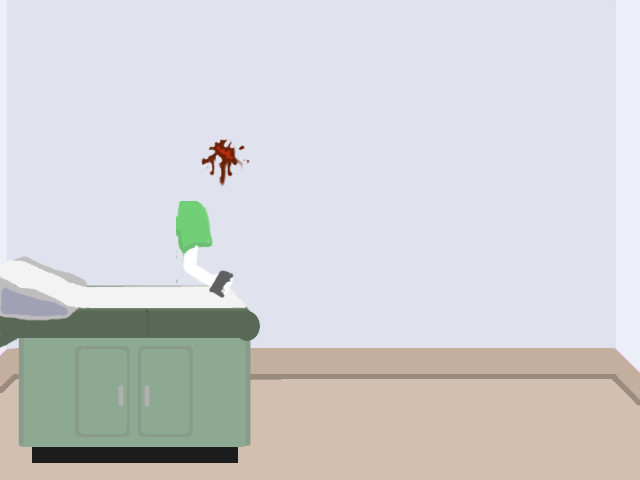
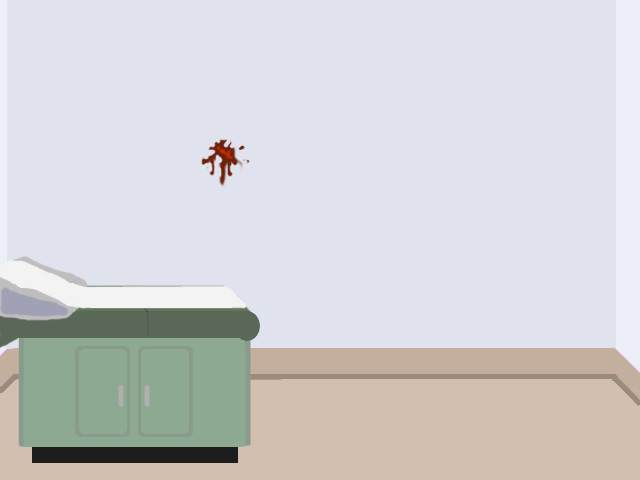
Left Arm

Changed region(s): [[0.25, 0.4062, 0.375, 0.625]]

diff --git a/game.min.js b/game.min.js
@@ -259,7 +259,7 @@ return rect;},update:function(){if(ig.world!=undefined)ig.world.Step(ig.system.t
 ig.baked=true;ig.module('plugins.box2d.entity').requires('impact.entity','plugins.box2d.game').defines(function(){ig.Box2DEntity=ig.Entity.extend({body:null,angle:0,init:function(x,y,settings){this.parent(x,y,settings);if(!ig.global.wm){this.createBody();}},createBody:function(){var bodyDef=new b2.BodyDef();bodyDef.position.Set((this.pos.x+this.size.x/2)*b2.SCALE,(this.pos.y+this.size.y/2)*b2.SCALE);this.body=ig.world.CreateBody(bodyDef);var shapeDef=new b2.PolygonDef();shapeDef.SetAsBox(this.size.x/2*b2.SCALE,this.size.y/2*b2.SCALE);shapeDef.density=1;this.body.CreateShape(shapeDef);this.body.SetMassFromShapes();},update:function(){var p=this.body.GetPosition();this.pos={x:(p.x/b2.SCALE-this.size.x/2),y:(p.y/b2.SCALE-this.size.y/2)};this.angle=this.body.GetAngle().round(2);if(this.currentAnim){this.currentAnim.update();this.currentAnim.angle=this.angle;}},kill:function(){ig.world.DestroyBody(this.body);this.parent();}});});
 
 // lib/game/entities/gib.js
-ig.baked=true;ig.module('game.entities.gib').requires('impact.entity','plugins.box2d.entity').defines(function(){EntityBigGib=ig.Box2DEntity.extend({size:{x:20,y:25},type:ig.Entity.TYPE.NONE,checkAgainst:ig.Entity.TYPE.A,collides:ig.Entity.COLLIDES.NEVER,animSheet:new ig.AnimationSheet('media/big_gib.png',20,25),maxVel:200,maxTorque:15,init:function(x,y,settings){this.parent(x,y,settings);var animRand=Math.floor((Math.random()*4));var angleRand=Math.floor((Math.random()*7));var vel=Math.floor((Math.random()*this.maxVel)+200);var torque=Math.floor((Math.random()*this.maxTorque));this.addAnim('idle',1,[animRand]);this.currentAnim.angle=angleRand;var vx=vel*Math.cos(angleRand);var vy=vel*Math.sin(angleRand);this.body.ApplyImpulse(new b2.Vec2(vx,vy),this.body.GetPosition());this.body.ApplyTorque(torque);this.body.m_linearDamping=0.7;this.body.m_angularDamping=0.6;ig.game.sortEntitiesDeferred();},update:function(){this.parent();},});EntityLittleGib=ig.Box2DEntity.extend({size:{x:8,y:8},type:ig.Entity.TYPE.NONE,checkAgainst:ig.Entity.TYPE.A,collides:ig.Entity.COLLIDES.NEVER,animSheet:new ig.AnimationSheet('media/little_gib.png',8,8),maxVel:400,maxTorque:35,init:function(x,y,settings){this.parent(x,y,settings);var animRand=Math.floor((Math.random()*4));var angleRand=Math.floor((Math.random()*7));var vel=Math.floor((Math.random()*this.maxVel)+200);var torque=Math.floor((Math.random()*this.maxTorque));this.addAnim('idle',1,[animRand]);this.currentAnim.angle=angleRand;var vx=vel*Math.cos(angleRand);var vy=vel*Math.sin(angleRand);this.body.ApplyImpulse(new b2.Vec2(vx,vy),this.body.GetPosition());this.body.ApplyTorque(torque);this.body.m_linearDamping=0.7;this.body.m_angularDamping=0.6;ig.game.sortEntitiesDeferred();},update:function(){this.parent();},});});
+ig.baked=true;ig.module('game.entities.gib').requires('impact.entity','plugins.box2d.entity').defines(function(){EntityBigGib=ig.Box2DEntity.extend({size:{x:20,y:25},type:ig.Entity.TYPE.NONE,checkAgainst:ig.Entity.TYPE.A,collides:ig.Entity.COLLIDES.NEVER,animSheet:new ig.AnimationSheet('media/big_gib.png',20,25),maxVel:200,maxTorque:15,init:function(x,y,settings){this.parent(x,y,settings);var animRand=Math.floor((Math.random()*4));var angleRand=Math.floor((Math.random()*7));var vel=Math.floor((Math.random()*this.maxVel)+200);var torque=Math.floor((Math.random()*this.maxTorque));this.addAnim('idle',1,[animRand]);this.currentAnim.angle=angleRand;var vx=vel*Math.cos(angleRand);var vy=vel*Math.sin(angleRand);this.body.ApplyImpulse(new b2.Vec2(vx,vy),this.body.GetPosition());this.body.ApplyTorque(torque);this.body.m_linearDamping=0.7;this.body.m_angularDamping=0.6;ig.game.sortEntitiesDeferred();},update:function(){this.parent();}});EntityLittleGib=ig.Box2DEntity.extend({size:{x:8,y:8},type:ig.Entity.TYPE.NONE,checkAgainst:ig.Entity.TYPE.A,collides:ig.Entity.COLLIDES.NEVER,animSheet:new ig.AnimationSheet('media/little_gib.png',8,8),maxVel:400,maxTorque:35,init:function(x,y,settings){this.parent(x,y,settings);var animRand=Math.floor((Math.random()*4));var angleRand=Math.floor((Math.random()*7));var vel=Math.floor((Math.random()*this.maxVel)+200);var torque=Math.floor((Math.random()*this.maxTorque));this.addAnim('idle',1,[animRand]);this.currentAnim.angle=angleRand;var vx=vel*Math.cos(angleRand);var vy=vel*Math.sin(angleRand);this.body.ApplyImpulse(new b2.Vec2(vx,vy),this.body.GetPosition());this.body.ApplyTorque(torque);this.body.m_linearDamping=0.7;this.body.m_angularDamping=0.6;ig.game.sortEntitiesDeferred();},update:function(){this.parent();},});});
 
 // lib/game/entities/playerHead.js
 ig.baked=true;ig.module('game.entities.playerHead').requires('impact.entity','game.entities.gib').defines(function(){EntityPlayerHead=ig.Entity.extend({size:{x:55,y:55},name:'player_head',friction:{x:500,y:500},gravityFactor:0,bang:new ig.Sound('media/bang.ogg'),type:ig.Entity.TYPE.A,checkAgainst:ig.Entity.TYPE.NONE,collides:ig.Entity.COLLIDES.NEVER,animSheet:new ig.AnimationSheet('media/player_head.png',55,55),flip:false,blinkTime:3,blinkingTime:0.5,exploding:false,init:function(x,y,settings){this.parent(x,y,settings);this.addAnim('idle',1,[0]);this.addAnim('blink',1,[1]);this.addAnim('up',1,[3]);this.addAnim('down',1,[4]);this.addAnim('explode',0.3,[5,6,7],true);this.currentAnim=this.anims['idle'];this.blinkTimer=new ig.Timer(this.blinkTime);this.blinkingTimer=new ig.Timer();},update:function(){if(this.exploding){if(this.currentAnim.loopCount)this.kill();}else{this.updateAnimations();}
@@ -276,11 +276,14 @@ ig.baked=true;ig.module('game.entities.drHead').requires('impact.entity').define
 // lib/game/entities/drBody.js
 ig.baked=true;ig.module('game.entities.drBody').requires('impact.entity').defines(function(){EntityDrBody=ig.Entity.extend({size:{x:78,y:287},name:'dr_body',friction:{x:500,y:500},gravityFactor:0,type:ig.Entity.TYPE.A,checkAgainst:ig.Entity.TYPE.NONE,collides:ig.Entity.COLLIDES.NEVER,animSheet:new ig.AnimationSheet('media/dr_body.png',78,287),init:function(x,y,settings){this.parent(x,y,settings);this.addAnim('idle',1,[0]);this.currentAnim=this.anims['idle'];},update:function(){this.parent();},});});
 
+// lib/game/entities/leftArm.js
+ig.baked=true;ig.module('game.entities.leftArm').requires('impact.entity').defines(function(){EntityLeftArm=ig.Entity.extend({size:{x:200,y:200},name:'left_arm',gravityFactor:0,lift:false,lifted:false,liftAngle:-0.5,restAngle:0,armSpeed:0.05,type:ig.Entity.TYPE.A,checkAgainst:ig.Entity.TYPE.NONE,collides:ig.Entity.COLLIDES.NEVER,animSheet:new ig.AnimationSheet('media/left_arm.png',200,200),init:function(x,y,settings){this.parent(x,y,settings);this.addAnim('idle',1,[0]);this.currentAnim=this.anims['idle'];this.zindex=-100;ig.game.sortEntitiesDeferred();},raise:function(){if(this.currentAnim.angle>this.liftAngle)this.currentAnim.angle-=this.armSpeed;else this.lifted=true;},lower:function(){this.currentAnim.angle+=this.armSpeed;this.lifted=false;},update:function(){if(this.lift==true)this.raise();else if(this.currentAnim.angle<this.restAngle)this.lower();this.parent();},});});
+
 // lib/game/entities/controls.js
 ig.baked=true;ig.module('game.entities.controls').requires('impact.entity').defines(function(){EntityControls=ig.Entity.extend({size:{x:341,y:43},name:'player_body',blink:false,gravityFactor:0,type:ig.Entity.TYPE.A,checkAgainst:ig.Entity.TYPE.NONE,collides:ig.Entity.COLLIDES.NEVER,animSheet:new ig.AnimationSheet('media/ctrls.png',341,43),init:function(x,y,settings){this.parent(x,y,settings);this.addAnim('idle',1,[0]);this.currentAnim=this.anims['idle'];this.blink=settings.blink;if(this.blink)this.blinkTimer=new ig.Timer(0);},draw:function(){if(!this.blink||Math.floor(this.blinkTimer.delta())%2==0){this.parent();}},});});
 
 // lib/game/levels/office.js
-ig.baked=true;ig.module('game.levels.office').requires('impact.image','game.entities.drHead','game.entities.playerBody','game.entities.drBody','game.entities.playerHead').defines(function(){LevelOffice={"entities":[{"type":"EntityDrHead","x":508,"y":100},{"type":"EntityPlayerBody","x":156,"y":172},{"type":"EntityDrBody","x":516,"y":148},{"type":"EntityPlayerHead","x":200,"y":136}],"layer":[{"name":"bg","width":16,"height":12,"linkWithCollision":false,"visible":1,"tilesetName":"media/office.jpg","repeat":false,"preRender":true,"distance":"1","tilesize":40,"foreground":false,"data":[[1,2,3,4,5,6,7,8,9,10,11,12,13,14,15,16],[17,18,19,20,21,22,23,24,25,26,27,28,29,30,31,32],[33,34,35,36,37,38,39,40,41,42,43,44,45,46,47,48],[49,50,51,52,53,54,55,56,57,58,59,60,61,62,63,64],[65,66,67,68,69,70,71,72,73,74,75,76,77,78,79,80],[81,82,83,84,85,86,87,88,89,90,91,92,93,94,95,96],[97,98,99,100,101,102,103,104,105,106,107,108,109,110,111,112],[113,114,115,116,117,118,119,120,121,122,123,124,125,126,127,128],[129,130,131,132,133,134,135,136,137,138,139,140,141,142,143,144],[145,146,147,148,149,150,151,152,153,154,155,156,157,158,159,160],[161,162,163,164,165,166,167,168,169,170,171,172,173,174,175,176],[177,178,179,180,181,182,183,184,185,186,187,188,189,190,191,192]]},{"name":"collision","width":16,"height":12,"linkWithCollision":false,"visible":1,"tilesetName":"","repeat":false,"preRender":false,"distance":1,"tilesize":40,"foreground":true,"data":[[1,1,1,1,1,1,1,1,1,1,1,1,1,1,1,1],[1,0,0,0,0,0,0,0,0,0,0,0,0,0,0,1],[1,0,0,0,0,0,0,0,0,0,0,0,0,1,1,1],[1,0,0,0,0,0,0,0,0,0,0,0,0,1,1,1],[1,0,0,0,0,0,0,0,0,0,0,0,0,0,1,1],[1,0,0,0,0,0,0,0,0,0,0,0,0,0,1,1],[1,0,0,0,0,0,0,0,0,0,0,0,0,0,1,1],[1,1,0,0,0,0,0,0,0,0,0,0,0,0,1,1],[1,1,1,1,1,1,0,0,0,0,0,0,0,0,1,1],[0,0,0,0,0,1,0,0,0,0,0,0,0,0,1,1],[0,0,0,0,0,1,0,0,0,0,0,0,0,1,1,1],[0,0,0,0,0,1,1,1,1,1,1,1,1,1,1,1]]}]};LevelOfficeResources=[new ig.Image('media/office.jpg')];});Array.prototype.first=function(){return this[0];};Array.prototype.last=function(){return this[this.length-1];};
+ig.baked=true;ig.module('game.levels.office').requires('impact.image','game.entities.drHead','game.entities.drBody','game.entities.leftArm','game.entities.playerBody','game.entities.playerHead').defines(function(){LevelOffice={"entities":[{"type":"EntityDrHead","x":508,"y":100},{"type":"EntityDrBody","x":516,"y":148},{"type":"EntityLeftArm","x":84,"y":104},{"type":"EntityPlayerBody","x":156,"y":172},{"type":"EntityPlayerHead","x":200,"y":136}],"layer":[{"name":"bg","width":16,"height":12,"linkWithCollision":false,"visible":1,"tilesetName":"media/office.jpg","repeat":false,"preRender":true,"distance":"1","tilesize":40,"foreground":false,"data":[[1,2,3,4,5,6,7,8,9,10,11,12,13,14,15,16],[17,18,19,20,21,22,23,24,25,26,27,28,29,30,31,32],[33,34,35,36,37,38,39,40,41,42,43,44,45,46,47,48],[49,50,51,52,53,54,55,56,57,58,59,60,61,62,63,64],[65,66,67,68,69,70,71,72,73,74,75,76,77,78,79,80],[81,82,83,84,85,86,87,88,89,90,91,92,93,94,95,96],[97,98,99,100,101,102,103,104,105,106,107,108,109,110,111,112],[113,114,115,116,117,118,119,120,121,122,123,124,125,126,127,128],[129,130,131,132,133,134,135,136,137,138,139,140,141,142,143,144],[145,146,147,148,149,150,151,152,153,154,155,156,157,158,159,160],[161,162,163,164,165,166,167,168,169,170,171,172,173,174,175,176],[177,178,179,180,181,182,183,184,185,186,187,188,189,190,191,192]]},{"name":"collision","width":16,"height":12,"linkWithCollision":false,"visible":1,"tilesetName":"","repeat":false,"preRender":false,"distance":1,"tilesize":40,"foreground":true,"data":[[1,1,1,1,1,1,1,1,1,1,1,1,1,1,1,1],[1,0,0,0,0,0,0,0,0,0,0,0,0,0,0,1],[1,0,0,0,0,0,0,0,0,0,0,0,0,1,1,1],[1,0,0,0,0,0,0,0,0,0,0,0,0,1,1,1],[1,0,0,0,0,0,0,0,0,0,0,0,0,0,1,1],[1,0,0,0,0,0,0,0,0,0,0,0,0,0,1,1],[1,0,0,0,0,0,0,0,0,0,0,0,0,0,1,1],[1,1,0,0,0,0,0,0,0,0,0,0,0,0,1,1],[1,1,1,1,1,1,0,0,0,0,0,0,0,0,1,1],[0,0,0,0,0,1,0,0,0,0,0,0,0,0,1,1],[0,0,0,0,0,1,0,0,0,0,0,0,0,1,1,1],[0,0,0,0,0,1,1,1,1,1,1,1,1,1,1,1]]}]};LevelOfficeResources=[new ig.Image('media/office.jpg')];});Array.prototype.first=function(){return this[0];};Array.prototype.last=function(){return this[this.length-1];};
 
 // lib/plugins/scene_manager.js
 ig.baked=true;ig.module('plugins.scene_manager').requires('impact.game','plugins.box2d.game').defines(function(){Scene=ig.Box2DGame.extend({title:null,sceneManager:null,font:null,center:{x:0,y:0},init:function(title){this.title=title||null;this.center.x=ig.system.width*0.5;this.center.y=ig.system.height*0.5;},update:function(){this.parent();ig.game.collisionMap=this.collisionMap;},draw:function(){this.parent();if(this.title!=null){if(this.font==null){this.font=new ig.Font('media/04b03.font.png');}
@@ -295,9 +298,10 @@ else{this.timedShakeTimer=null;}}
 this.spring.update();},shakeScreen:function(screenPos){screenPos.x=screenPos.x-this.spring.lastPos.x+this.spring.pos.x;screenPos.y=screenPos.y-this.spring.lastPos.y+this.spring.pos.y;},applyImpulse:function(x,y){this.spring.applyImpulse(x,y);},timedShake:function(intensity,time){this.timedShakeIntensity=intensity;this.timedShakeTimer=new ig.Timer(time);}});});
 
 // lib/game/main.js
-ig.baked=true;ig.module('game.main').requires('impact.game','impact.font','game.entities.playerHead','game.entities.playerBody','game.entities.drHead','game.entities.drBody','game.entities.controls','game.levels.office','plugins.box2d.game','plugins.scene_manager','plugins.screenshaker').defines(function(){CONTROLS_X=160;CONTROLS_Y=435;FullsizeBackdrop=ig.Image.extend({resize:function(){},draw:function(){if(!this.loaded){return;}
+ig.baked=true;ig.module('game.main').requires('impact.game','impact.font','game.entities.playerHead','game.entities.playerBody','game.entities.drHead','game.entities.drBody','game.entities.leftArm','game.entities.controls','game.levels.office','plugins.box2d.game','plugins.scene_manager','plugins.screenshaker').defines(function(){CONTROLS_X=160;CONTROLS_Y=435;FullsizeBackdrop=ig.Image.extend({resize:function(){},draw:function(){if(!this.loaded){return;}
 ig.system.context.drawImage(this.data,0,0);}});ParentScreen=ig.Box2DGame.extend({sceneManager:new SceneManager(),init:function(){this.sceneManager.pushScene(new LogoScene());},update:function(){this.sceneManager.updateScene();},draw:function(){this.sceneManager.drawScene();}});LogoScene=Scene.extend({backdrop:new FullsizeBackdrop('media/logo.jpg'),init:function(title){this.clearColor=null;this.timer=new ig.Timer(2);ig.input.bind(ig.KEY.SPACE,'start');},update:function(){this.parent();if(ig.input.pressed('start')||this.timer.delta()>=0){this.sceneManager.pushScene(new TitleScene());}},draw:function(){this.parent();this.backdrop.draw();}});TitleScene=Scene.extend({backdrop:new FullsizeBackdrop('media/title.jpg'),init:function(title){this.parent();this.clearColor=null;this.controls=ig.game.spawnEntity(EntityControls,CONTROLS_X,CONTROLS_Y,{blink:true});ig.music.add('media/waiting_room.ogg','music');ig.music.volume=0.3;ig.music.loop=true;ig.music.play('music');ig.input.bind(ig.KEY.SPACE,'start');},update:function(){this.parent();if(ig.input.pressed('start')){this.sceneManager.pushScene(new DrOfficeScene());}},draw:function(){this.backdrop.draw();this.parent();}});DrOfficeScene=Scene.extend({gravity:300,phoneBackdrop:new FullsizeBackdrop('media/phone.jpg'),showPhone:false,playerAlive:true,keysBound:true,init:function(){this.bindKeys();this.clearColor=null;this.lifeTimer=new ig.Timer(10);this.levelTimer=new ig.Timer(10.5);this.loadLevel(LevelOffice);this.controls=ig.game.spawnEntity(EntityControls,CONTROLS_X,CONTROLS_Y,{blink:false});},update:function(){if(this.levelTimer.delta()>=0){this.sceneManager.pushScene(new BlackScene());}
-var time=this.lifeTimer.delta();if(this.playerAlive&&time>=-1){if(this.keysBound)this.unbindKeys();if(time>=0)this.killPlayer();this.showPhone=false;}else{this.showPhone=ig.input.state('phone')||time<=-9;}
+var arm=ig.game.getEntityByName('left_arm');var time=this.lifeTimer.delta();if(typeof arm!=undefined)
+arm.lift=ig.input.state('phone')||time<=-9;if(this.playerAlive&&time>=-1){if(this.keysBound)this.unbindKeys();if(time>=0)this.killPlayer();this.showPhone=false;}else{this.showPhone=arm.lifted||time<=-9;}
 this.parent();},draw:function(){if(this.showPhone)this.displayPhone();else this.parent();},killPlayer:function(){this.playerAlive=false;ig.music.stop();playerHead=ig.game.getEntityByName('player_head');playerHead.explode();},displayPhone:function(){this.phoneBackdrop.draw();ig.system.context.save();ig.system.context.fillStyle='white';ig.system.context.textAlign='center';ig.system.context.font='bold 72px sans-serif';var time=(this.lifeTimer.delta()>=0)?10:(this.lifeTimer.delta()+10).toFixed(2);ig.system.context.fillText(time,320,250);ig.system.context.restore();},unbindKeys:function(){this.keysBound=false;ig.input.unbind(ig.KEY.LEFT_ARROW,'left');ig.input.unbind(ig.KEY.RIGHT_ARROW,'right');ig.input.unbind(ig.KEY.UP_ARROW,'up');ig.input.unbind(ig.KEY.DOWN_ARROW,'down');ig.input.unbind(ig.KEY.SPACE,'phone');},bindKeys:function(){ig.input.bind(ig.KEY.LEFT_ARROW,'left');ig.input.bind(ig.KEY.RIGHT_ARROW,'right');ig.input.bind(ig.KEY.UP_ARROW,'up');ig.input.bind(ig.KEY.DOWN_ARROW,'down');ig.input.bind(ig.KEY.SPACE,'phone');}});BlackScene=Scene.extend({init:function(title){this.timer=new ig.Timer(1);},update:function(){if(this.timer.delta()>=0){this.sceneManager.pushScene(new EndScene());}
 this.parent();}});EndScene=Scene.extend({backdrop:new FullsizeBackdrop('media/end.jpg'),word_index:0,word_time:3,words:['GAME OVER','POINTS: 0','BY BORDEN'],init:function(title){this.clearColor=null;this.timer=new ig.Timer(this.word_time);},update:function(){if(this.timer.delta()>=0){this.word_index++;this.timer.set(this.word_time)
 if(this.word_index>=this.words.length)this.sceneManager.pushScene(new TitleScene());}
